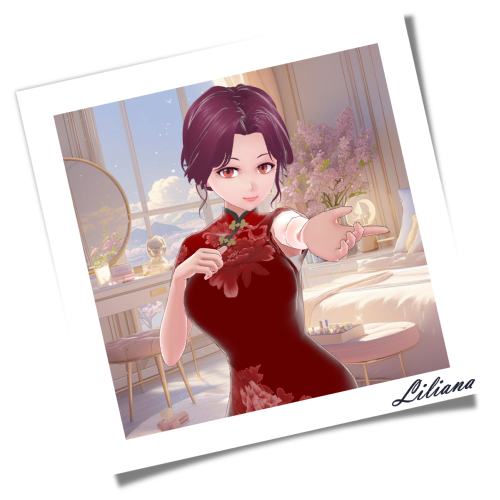
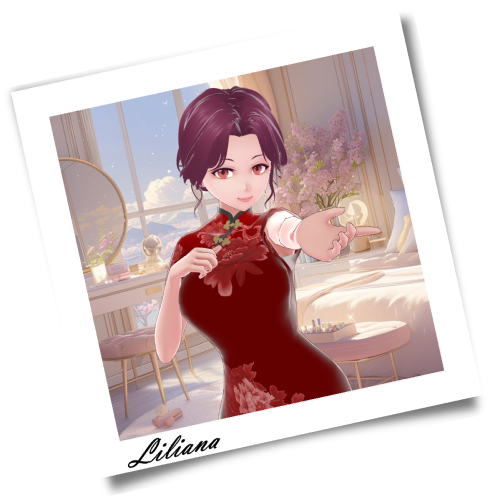
correccion de errores

diff --git a/js/theme.js b/js/theme.js
@@ -4,105 +4,103 @@ const urlParams = new URLSearchParams(window.location.search);
 let urlVar1 = urlParams.get("tema");
 let urlVar2 = urlParams.get("on");
 let urlVar3 = urlParams.get("off");
-let FechaCdg, DefCdg, UrlCdg;
+let FechaCdg;
+const DefCdg = [];
+const UrlCdg = [], UrlCdg2  = [];
 let datostheme = [
     {
         name: "asebabd",
         file: "css/asebabd.css",
-        type: 'Url',
-        urlCodigo: 0,
-        default: true
+        type: ['default', 'Url'],
+        urlCodigo: 0
     },
     {
         name: "Fiesta Patrias",
         file: "css/18Sept.css",
-        type: 'fecha',
+        type: ['fecha'],
         incio: { dia: 1, mes: 9 },
-        fin: { dia: 30, mes: 9 },
-        urlCodigo: 1,
-        default: false
+        fin: { dia: 30, mes: 9 }
     },
     {
         name: "Navidad",
         file: "css/navidad.css",
-        type: 'fecha',
+        type: ['fecha'],
         incio: { dia: 1, mes: 12 },
-        fin: { dia: 31, mes: 12 },
-        urlCodigo: 2,
-        default: false
-    },
-    {
-        name: "Hello Kitty",
-        file: "css/theme-3.css",
-        type: 'Url',
-        urlCodigo: 3,
-        default: false
+        fin: { dia: 31, mes: 12 }
     },
     {
         name: "Pokémon",
         file: "css/theme-4.css",
-        type: 'Url',
-        urlCodigo: 4,
-        default: false
+        type: ['Url'],
+        urlCodigo: 1
     },
     {
         name: "SlamDunk",
         file: "css/theme-5.css",
-        type: 'Url',
-        urlCodigo: 5,
-        default: false
+        type: ['Url'],
+        urlCodigo: 2
+    },
+    {
+        name: "Hello Kitty",
+        file: "css/theme-3.css",
+        type: ['Url'],
+        urlCodigo: 3
     },
     {
         name: "DragonBall Z",
         file: "css/theme-6.css",
-        type: 'Url',
-        urlCodigo: 6,
-        default: false
-    },
-    {
-        name: "Inuyasha",
-        file: "css/theme-7.css",
-        type: 'Url',
-        urlCodigo: 7,
-        default: false
+        type: ['Url'],
+        urlCodigo: 4
     },
     {
         name: "Liliana",
         file: "css/liliana.css",
-        type: 'fecha',
+        type: ['default', 'fecha', 'Url'],
         incio: { dia: 29, mes: 1 },
         fin: { dia: 9, mes: 2 },
-        urlCodigo: 8,
-        default: false
+        urlCodigo: 5
     },
     {
         name: "Sebastian",
         file: "css/sebastian.css",
-        type: 'fecha',
+        type: ['default', 'fecha', 'Url'],
         incio: { dia: 31, mes: 1 },
         fin: { dia: 31, mes: 1 },
-        urlCodigo: 9,
-        default: false
+        urlCodigo: 6
+    },
+    {
+        name: "Inuyasha",
+        file: "css/theme-7.css",
+        type: ['Url'],
+        urlCodigo: 7
     }
 ];
-datostheme.forEach(temas => {
-    if (temas.type === 'Url' && temas.default === true) {
-        DefCdg = temas.urlCodigo;
+datostheme.forEach((temas, idx) => {
+    if (temas.type.indexOf('default') !== -1) {
+        DefCdg.push(temas.file);
     }
-    if (temas.type === 'fecha') {
+    if (temas.type.indexOf('fecha') !== -1) {
         let xy = new Date(`${fecha.getFullYear()}/${temas.incio.mes}/${temas.incio.dia} 00:00:00`);
         let yz = new Date(`${fecha.getFullYear()}/${temas.fin.mes}/${temas.fin.dia} 23:59:59`);
         if (xy <= fecha && yz >= fecha) {
             FechaCdg = temas.urlCodigo;
         }
     }
+    if (temas.type.indexOf('Url') !== -1) {
+        UrlCdg.push(temas.urlCodigo);
+        UrlCdg2.push(idx);
+    }
 });
 if ((urlVar2 === '' || urlVar2 === null) && urlVar3 !== '' && FechaCdg !== undefined) {
     urlTheme.href = datostheme[FechaCdg].file;
-} else if (parseInt(urlVar1) < datostheme.length && (urlVar1 !== null || urlVar1 !== '')) {
-    urlTheme.href = datostheme[parseInt(urlVar1)].file;
+} else if (parseInt(urlVar1) < UrlCdg.length && (urlVar1 !== null || urlVar1 !== '') && (UrlCdg.indexOf(parseInt(urlVar1)) !== -1)) {
+    urlTheme.href = datostheme[UrlCdg2[UrlCdg.indexOf(parseInt(urlVar1))]].file;
+
 } else {
-    urlTheme.href = datostheme[DefCdg].file;
+    urlTheme.href = DefCdg[getRandomInt(DefCdg.length)];
 }
+function getRandomInt(max) {
+    return Math.floor(Math.random() * max);
+  }
 /* function changetheme() {};
 window.addEventListener('load', changetheme); */

diff --git a/css/theme-6.css b/css/theme-6.css
@@ -9,17 +9,17 @@ body {
 }
 
 .container {
-  background-image: url("../img/theme-6/goku.png"),
-    url("../img/theme-6/kid_goku.png"), url("../img/theme-6/shohoku2.png"),
+  background-image: url(../img/theme-6/goku.png),
+    url(../img/theme-6/kid_goku.png),
     url(../img/theme-6/ball5.png), url(../img/theme-6/ball2.png),
     url(../img/theme-6/ball7.png), url(../img/theme-6/ball4.png),
     url(../img/theme-6/ball1.png), url(../img/theme-6/ball3.png),
     url(../img/theme-6/ball6.png),
-    url("../img/theme-6/dragonballZ.png"), url("../img/theme-6/fondo.jpg");
-  background-size: 22%, 17%, 25%, 8%,8%,8%,8%,8%,8%,8%,27%, cover;
+    url(../img/theme-6/dragonballZ.png), url(../img/theme-6/fondo.jpg);
+  background-size: 22%, 17%, 8%,8%,8%,8%,8%,8%,8%,27%, cover;
   background-repeat: no-repeat, no-repeat, no-repeat, no-repeat, no-repeat,no-repeat, no-repeat, no-repeat, no-repeat, no-repeat,
-  no-repeat, no-repeat;
-  background-position: left 10px center, right 10px center, right bottom,
+  no-repeat;
+  background-position: left 10px center, right 10px center,
   left 23% top 2%, left 40% top 2%, right 40% top 2%,
     right 23% top 2%, left 30% bottom 2%, center bottom 2% , right 30% bottom 2%,
     right bottom, left top;

diff --git a/css/sebastian.css b/css/sebastian.css
@@ -20,8 +20,8 @@
       transparent 80%,
       transparent 100%),
     linear-gradient(135deg, #bbbbbb 0%, #ebebeb 50%, #bbbbbb 100%);
-  background-position:right 10px center, left center, left 20% top, left 20% bottom, right 23% top 3px, right 23% bottom, left top, left top;
-  background-size: contain, 17%, 16%, 16%, 17%, 17%, 50px 50px, 100%;
+  background-position:right 10px center, left -10px center, left 23% top -6px, left 23% bottom -10px, right 25% top, right 23% bottom, left top, left top;
+  background-size: contain, 23%, 17%, 17%, 17%, 17%, 50px 50px, 100%;
   background-repeat: no-repeat, no-repeat, no-repeat, no-repeat, no-repeat, no-repeat, repeat, no-repeat;
 }
 

diff --git a/css/liliana.css b/css/liliana.css
@@ -20,8 +20,8 @@
       transparent 80%,
       transparent 100%),
     linear-gradient(135deg, #bbbbbb 0%, #ebebeb 50%, #bbbbbb 100%);
-  background-position: left center, right center, right 25% top, right 20% bottom, left 23% top 3px, left 23% bottom, left top, left top;
-  background-size: contain, contain, 17%, 17%, 15%, 16%, 50px 50px, 100%;
+  background-position: left center, right center, right 25% top, right 23% bottom, left 23% top -6px, left 23% bottom -10px, left top, left top;
+  background-size: contain, contain, 17%, 17%, 17%, 17%, 50px 50px, 100%;
   background-repeat: no-repeat, no-repeat, no-repeat, no-repeat, no-repeat, no-repeat, repeat, no-repeat;
 }
 
